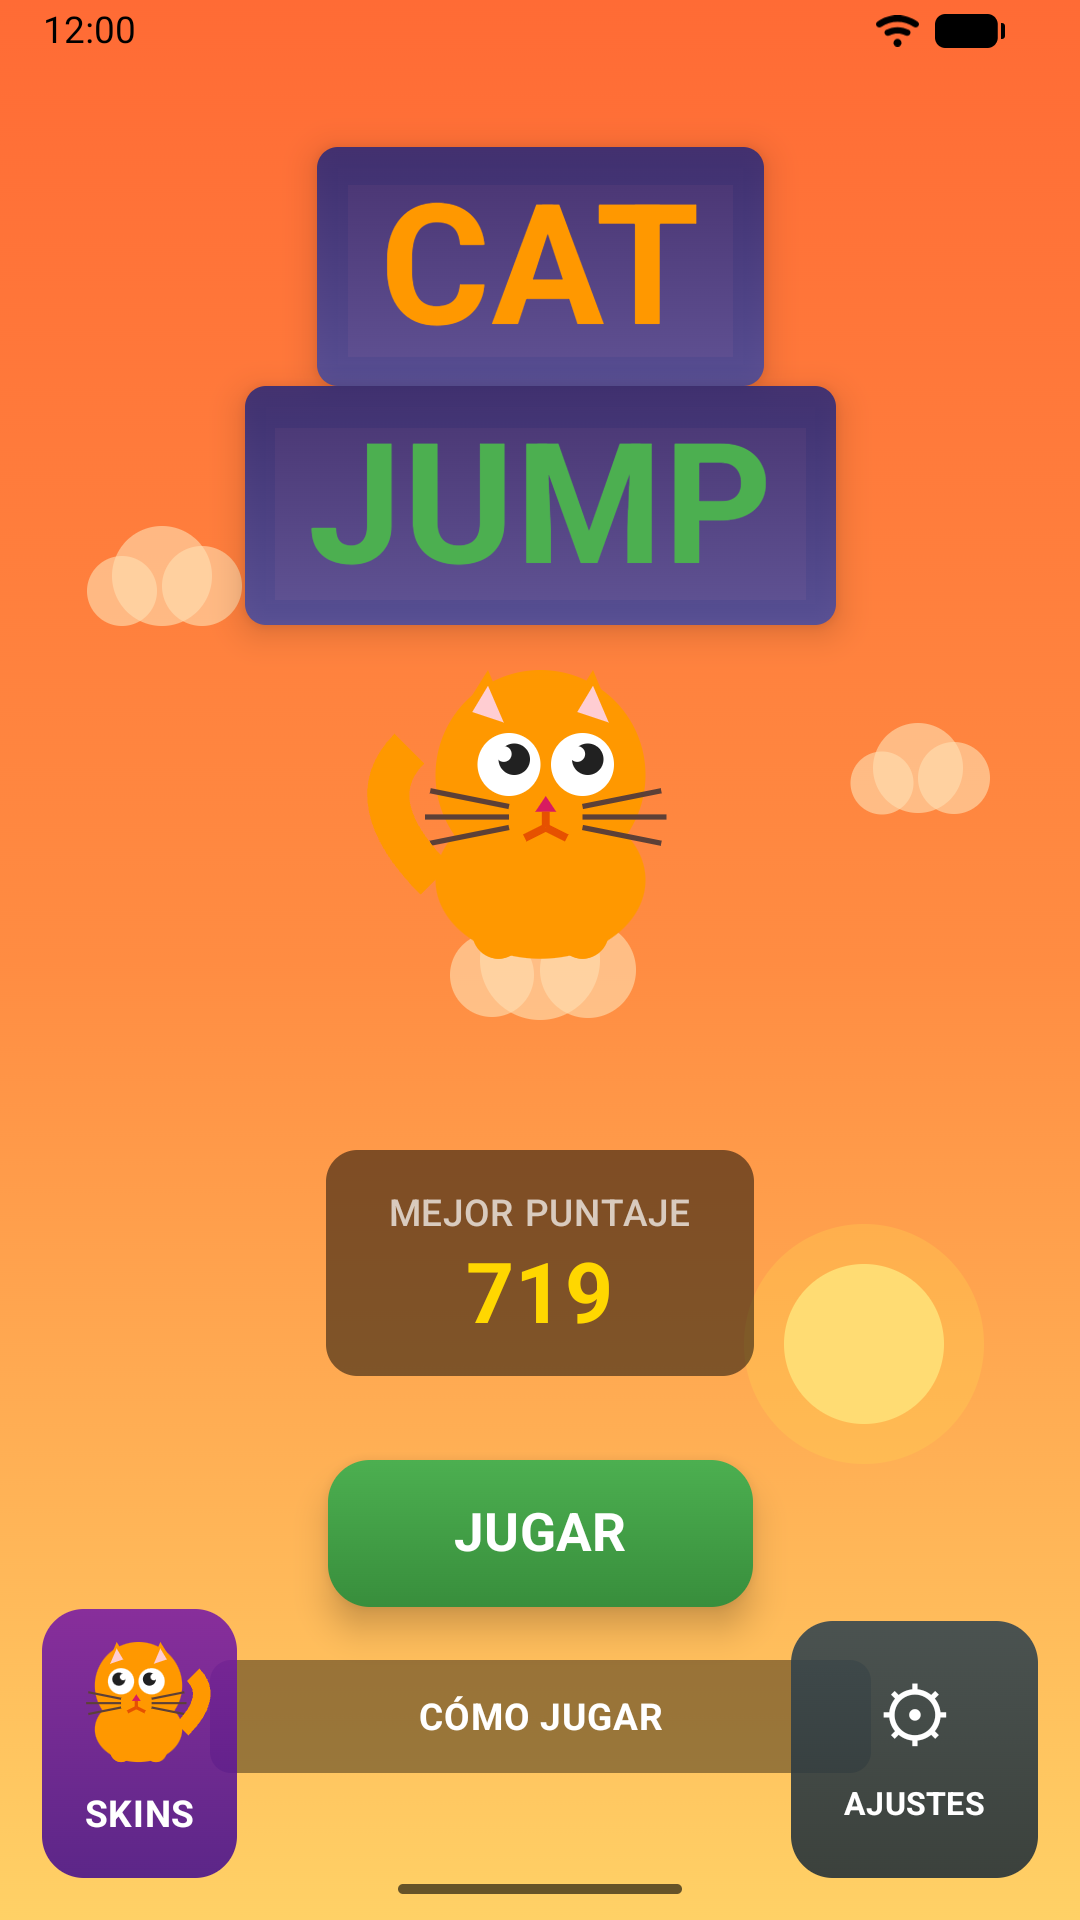
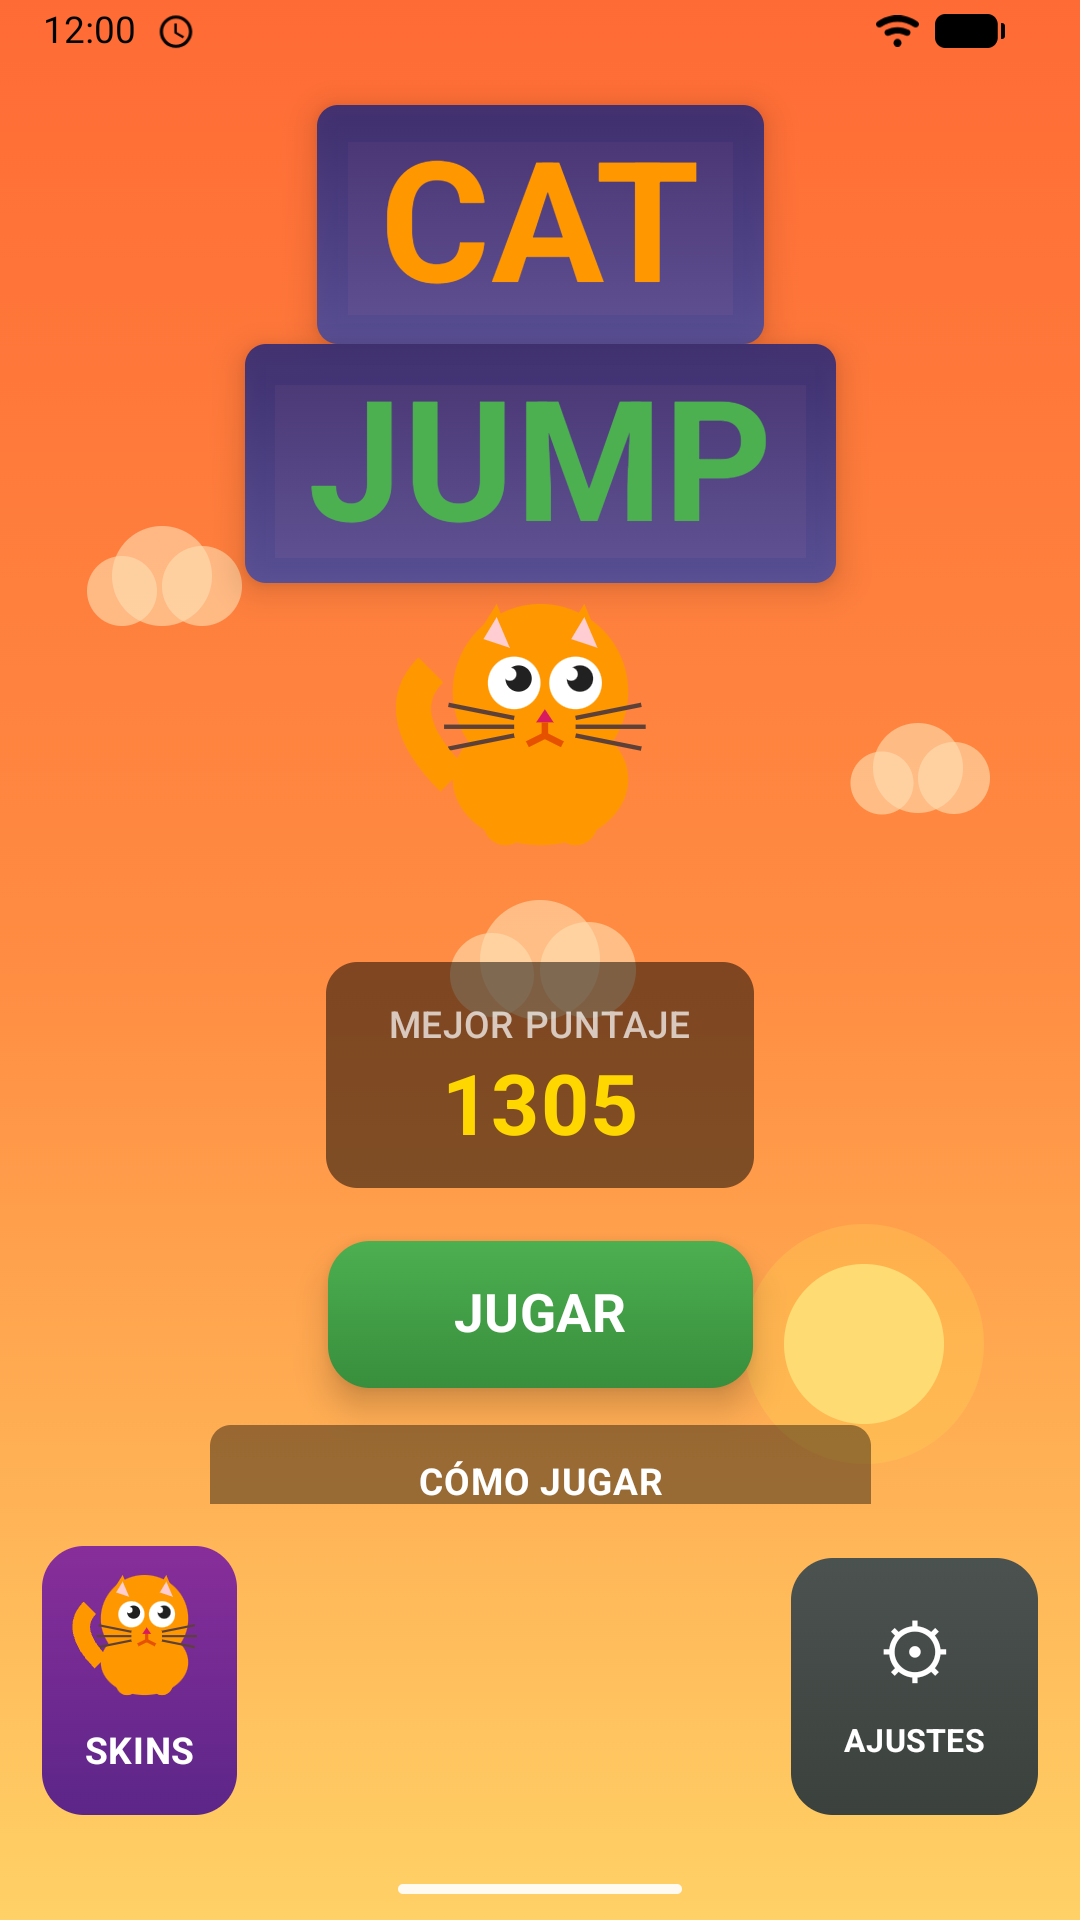
Menu: SKINS y AJUSTES dejan de tapar el panel CÓMO JUGAR
Los dos botones estaban alineados a las esquinas del Box raiz, o sea
flotando sobre la columna de contenido. Mientras el contenido entraba en
pantalla no se notaba, pero al aparecer MEJOR PUNTAJE dejaba de entrar:
Column no scrollea, asi que recortaba su ultimo hijo y "CÓMO JUGAR"
quedaba reducido a su titulo justo en la franja de los botones, tapado
por ambos. Era el estado que veia cualquiera despues de su primera
partida.

Ahora los tres van en el mismo flujo vertical: el contenido toma el alto
que sobra y los botones ocupan su propia franja, asi no pueden pisarse
sea cual sea el alto de pantalla. El contenido ademas scrollea, con
heightIn(min = alto disponible) para que Arrangement.Center siga
centrando cuando entra (el scroll mide con alto infinito, sin el minimo
la columna se encogeria al contenido y quedaria pegada arriba).

Reservar espacio abajo dentro de la columna no alcanzaba: los botones
flotaban, asi que el hueco solo agregaba area scrolleable y el panel
seguia cayendo debajo de ellos.

Con esto el contenido pasaba a ser mas alto que el area util y JUGAR
quedaba abajo del pliegue, asi que se ajusto el espaciado, que estaba
muy holgado: paddings y separadores mas chicos y el gato de 120 a 100dp.
En un alto de 731dp entra hasta JUGAR; las instrucciones se alcanzan
scrolleando. En pantallas mas altas entra todo centrado.

Los botones tampoco tenian insets propios y quedaban pegados a la barra
de gestos; al pasar al flujo heredan los de la columna.
[…]

Changed region(s): [[0.0306, 0.0312, 0.9778, 1.0], [0.3667, 0.9688, 0.6417, 1.0], [0.1528, 0.0, 0.1833, 0.0312]]

diff --git a/app/src/main/java/com/example/catjump/presentation/screens/MenuScreen.kt b/app/src/main/java/com/example/catjump/presentation/screens/MenuScreen.kt
@@ -9,17 +9,23 @@ import androidx.compose.foundation.background
 import androidx.compose.foundation.clickable
 import androidx.compose.foundation.layout.Arrangement
 import androidx.compose.foundation.layout.Box
+import androidx.compose.foundation.layout.BoxWithConstraints
 import androidx.compose.foundation.layout.Column
+import androidx.compose.foundation.layout.Row
 import androidx.compose.foundation.layout.Spacer
 import androidx.compose.foundation.layout.WindowInsets
 import androidx.compose.foundation.layout.fillMaxSize
+import androidx.compose.foundation.layout.fillMaxWidth
 import androidx.compose.foundation.layout.height
+import androidx.compose.foundation.layout.heightIn
 import androidx.compose.foundation.layout.offset
 import androidx.compose.foundation.layout.padding
 import androidx.compose.foundation.layout.safeDrawing
 import androidx.compose.foundation.layout.size
 import androidx.compose.foundation.layout.windowInsetsPadding
+import androidx.compose.foundation.rememberScrollState
 import androidx.compose.foundation.shape.RoundedCornerShape
+import androidx.compose.foundation.verticalScroll
 import androidx.compose.material3.Text
 import androidx.compose.runtime.Composable
 import androidx.compose.runtime.getValue
@@ -32,6 +38,7 @@ import androidx.compose.ui.graphics.Color
 import androidx.compose.ui.semantics.contentDescription
 import androidx.compose.ui.semantics.semantics
 import androidx.compose.ui.text.font.FontWeight
+import androidx.compose.ui.unit.Dp
 import androidx.compose.ui.unit.dp
 import androidx.compose.ui.unit.sp
 import com.example.catjump.domain.model.CatSkin
@@ -75,153 +82,213 @@ fun MenuScreen(
         // Animated background
         GameBackground(cameraYProvider = { 0f }, scoreProvider = { 0 })
 
-        // Main content
+        // SKINS y AJUSTES antes flotaban sobre el contenido, alineados a las
+        // esquinas de este Box. Al aparecer MEJOR PUNTAJE el contenido dejaba
+        // de entrar en pantalla y "CÓMO JUGAR" terminaba recortado y tapado
+        // por los dos botones. Ahora los tres van en el mismo flujo: el
+        // contenido toma el alto que sobra y los botones ocupan su propia
+        // franja, asi no pueden pisarse pase lo que pase con el alto.
         Column(
             modifier = Modifier
                 .fillMaxSize()
                 .windowInsetsPadding(WindowInsets.safeDrawing)
-                .padding(32.dp),
-            horizontalAlignment = Alignment.CenterHorizontally,
-            verticalArrangement = Arrangement.Center
         ) {
-            // Title
-            Text(
-                text = "CAT",
-                color = Color(0xFFFF9800),
-                fontSize = 64.sp,
-                fontWeight = FontWeight.Bold,
+            BoxWithConstraints(
                 modifier = Modifier
-                    .shadow(8.dp, RoundedCornerShape(8.dp))
-                    .background(
-                        brush = Brush.verticalGradient(
-                            colors = listOf(
-                                Color(0xFF1a237e).copy(alpha = 0.8f),
-                                Color(0xFF3949ab).copy(alpha = 0.8f)
-                            )
-                        ),
-                        shape = RoundedCornerShape(8.dp)
-                    )
-                    .padding(horizontal = 24.dp, vertical = 8.dp)
-            )
-            Text(
-                text = "JUMP",
-                color = Color(0xFF4CAF50),
-                fontSize = 64.sp,
-                fontWeight = FontWeight.Bold,
-                modifier = Modifier
-                    .shadow(8.dp, RoundedCornerShape(8.dp))
-                    .background(
-                        brush = Brush.verticalGradient(
-                            colors = listOf(
-                                Color(0xFF1a237e).copy(alpha = 0.8f),
-                                Color(0xFF3949ab).copy(alpha = 0.8f)
-                            )
-                        ),
-                        shape = RoundedCornerShape(8.dp)
-                    )
-                    .padding(horizontal = 24.dp, vertical = 8.dp)
-            )
-
-            Spacer(modifier = Modifier.height(32.dp))
-
-            // Animated cat with selected skin
-            Box(
-                modifier = Modifier
-                    .offset(y = -catBounce.dp)
-                    .size(120.dp),
-                contentAlignment = Alignment.Center
+                    .fillMaxWidth()
+                    .weight(1f)
             ) {
-                CatSprite(
-                    facingRight = true,
-                    isJumping = catBounce > 7f,
-                    modifier = Modifier.size(120.dp),
-                    skin = selectedSkin
+                MenuContent(
+                    highScore = highScore,
+                    catBounce = catBounce,
+                    selectedSkin = selectedSkin,
+                    onPlayClick = onPlayClick,
+                    availableHeight = maxHeight
                 )
             }
 
-            Spacer(modifier = Modifier.height(48.dp))
-
-            // High Score display
-            if (highScore > 0) {
-                Box(
-                    modifier = Modifier
-                        .background(
-                            color = Color.Black.copy(alpha = 0.5f),
-                            shape = RoundedCornerShape(12.dp)
-                        )
-                        .padding(horizontal = 24.dp, vertical = 12.dp)
-                ) {
-                    Column(horizontalAlignment = Alignment.CenterHorizontally) {
-                        Text(
-                            text = "MEJOR PUNTAJE",
-                            color = Color.White.copy(alpha = 0.7f),
-                            fontSize = 14.sp,
-                            fontWeight = FontWeight.Medium
-                        )
-                        Text(
-                            text = highScore.toString(),
-                            color = Color(0xFFFFD700),
-                            fontSize = 32.sp,
-                            fontWeight = FontWeight.Bold
-                        )
-                    }
-                }
-
-                Spacer(modifier = Modifier.height(32.dp))
-            }
-
-            // Play button
-            GameButton(
-                text = "JUGAR",
-                onClick = onPlayClick
+            MenuBottomBar(
+                skinsCatBounce = skinsCatBounce,
+                selectedSkin = selectedSkin,
+                onSkinsClick = onSkinsClick,
+                onSettingsClick = onSettingsClick
             )
+        }
+    }
+}
 
-            Spacer(modifier = Modifier.height(20.dp))
+@Composable
+private fun MenuContent(
+    highScore: Int,
+    catBounce: Float,
+    selectedSkin: CatSkin,
+    onPlayClick: () -> Unit,
+    availableHeight: Dp
+) {
+    Column(
+        modifier = Modifier
+            .fillMaxWidth()
+            .verticalScroll(rememberScrollState())
+            // El minimo es lo que hace que Arrangement.Center funcione: el
+            // scroll mide con alto infinito, asi que sin el la columna se
+            // encoge al contenido y queda pegada arriba. Con el, centra
+            // cuando entra y scrollea cuando no, en vez de recortarse.
+            .heightIn(min = availableHeight)
+            .padding(horizontal = 32.dp, vertical = 16.dp),
+        horizontalAlignment = Alignment.CenterHorizontally,
+        verticalArrangement = Arrangement.Center
+    ) {
+        // Title
+        Text(
+            text = "CAT",
+            color = Color(0xFFFF9800),
+            fontSize = 64.sp,
+            fontWeight = FontWeight.Bold,
+            modifier = Modifier
+                .shadow(8.dp, RoundedCornerShape(8.dp))
+                .background(
+                    brush = Brush.verticalGradient(
+                        colors = listOf(
+                            Color(0xFF1a237e).copy(alpha = 0.8f),
+                            Color(0xFF3949ab).copy(alpha = 0.8f)
+                        )
+                    ),
+                    shape = RoundedCornerShape(8.dp)
+                )
+                .padding(horizontal = 24.dp, vertical = 8.dp)
+        )
+        Text(
+            text = "JUMP",
+            color = Color(0xFF4CAF50),
+            fontSize = 64.sp,
+            fontWeight = FontWeight.Bold,
+            modifier = Modifier
+                .shadow(8.dp, RoundedCornerShape(8.dp))
+                .background(
+                    brush = Brush.verticalGradient(
+                        colors = listOf(
+                            Color(0xFF1a237e).copy(alpha = 0.8f),
+                            Color(0xFF3949ab).copy(alpha = 0.8f)
+                        )
+                    ),
+                    shape = RoundedCornerShape(8.dp)
+                )
+                .padding(horizontal = 24.dp, vertical = 8.dp)
+        )
 
-            // Instructions
+        Spacer(modifier = Modifier.height(20.dp))
+
+        // Animated cat with selected skin
+        Box(
+            modifier = Modifier
+                .offset(y = -catBounce.dp)
+                .size(100.dp),
+            contentAlignment = Alignment.Center
+        ) {
+            CatSprite(
+                facingRight = true,
+                isJumping = catBounce > 7f,
+                modifier = Modifier.size(100.dp),
+                skin = selectedSkin
+            )
+        }
+
+        Spacer(modifier = Modifier.height(24.dp))
+
+        // High Score display
+        if (highScore > 0) {
             Box(
                 modifier = Modifier
                     .background(
-                        color = Color.Black.copy(alpha = 0.4f),
-                        shape = RoundedCornerShape(8.dp)
+                        color = Color.Black.copy(alpha = 0.5f),
+                        shape = RoundedCornerShape(12.dp)
                     )
-                    .padding(horizontal = 16.dp, vertical = 10.dp)
+                    .padding(horizontal = 24.dp, vertical = 12.dp)
             ) {
                 Column(horizontalAlignment = Alignment.CenterHorizontally) {
                     Text(
-                        text = "CÓMO JUGAR",
-                        color = Color.White,
+                        text = "MEJOR PUNTAJE",
+                        color = Color.White.copy(alpha = 0.7f),
                         fontSize = 14.sp,
+                        fontWeight = FontWeight.Medium
+                    )
+                    Text(
+                        text = highScore.toString(),
+                        color = Color(0xFFFFD700),
+                        fontSize = 32.sp,
                         fontWeight = FontWeight.Bold
-                    )
-                    Spacer(modifier = Modifier.height(4.dp))
-                    Text(
-                        text = "Tocá los lados para mover al gato",
-                        color = Color.White.copy(alpha = 0.8f),
-                        fontSize = 12.sp,
-                        lineHeight = 15.sp
-                    )
-                    Text(
-                        text = "Saltá sobre las plataformas para subir",
-                        color = Color.White.copy(alpha = 0.8f),
-                        fontSize = 12.sp,
-                        lineHeight = 15.sp
-                    )
-                    Text(
-                        text = "Esquivá obstáculos y ¡no caigas!",
-                        color = Color.White.copy(alpha = 0.8f),
-                        fontSize = 12.sp,
-                        lineHeight = 15.sp
                     )
                 }
             }
+
+            Spacer(modifier = Modifier.height(20.dp))
         }
 
-        // Skins button - bottom left corner with dancing cat
+        // Play button
+        GameButton(
+            text = "JUGAR",
+            onClick = onPlayClick
+        )
+
+        Spacer(modifier = Modifier.height(14.dp))
+
+        // Instructions
         Box(
             modifier = Modifier
-                .align(Alignment.BottomStart)
-                .padding(16.dp)
+                .background(
+                    color = Color.Black.copy(alpha = 0.4f),
+                    shape = RoundedCornerShape(8.dp)
+                )
+                .padding(horizontal = 16.dp, vertical = 10.dp)
+        ) {
+            Column(horizontalAlignment = Alignment.CenterHorizontally) {
+                Text(
+                    text = "CÓMO JUGAR",
+                    color = Color.White,
+                    fontSize = 14.sp,
+                    fontWeight = FontWeight.Bold
+                )
+                Spacer(modifier = Modifier.height(4.dp))
+                Text(
+                    text = "Tocá los lados para mover al gato",
+                    color = Color.White.copy(alpha = 0.8f),
+                    fontSize = 12.sp,
+                    lineHeight = 15.sp
+                )
+                Text(
+                    text = "Saltá sobre las plataformas para subir",
+                    color = Color.White.copy(alpha = 0.8f),
+                    fontSize = 12.sp,
+                    lineHeight = 15.sp
+                )
+                Text(
+                    text = "Esquivá obstáculos y ¡no caigas!",
+                    color = Color.White.copy(alpha = 0.8f),
+                    fontSize = 12.sp,
+                    lineHeight = 15.sp
+                )
+            }
+        }
+    }
+}
+
+@Composable
+private fun MenuBottomBar(
+    skinsCatBounce: Float,
+    selectedSkin: CatSkin,
+    onSkinsClick: () -> Unit,
+    onSettingsClick: () -> Unit
+) {
+    Row(
+        modifier = Modifier
+            .fillMaxWidth()
+            .padding(16.dp),
+        horizontalArrangement = Arrangement.SpaceBetween,
+        verticalAlignment = Alignment.Bottom
+    ) {
+        // Skins button with dancing cat
+        Box(
+            modifier = Modifier
                 .clip(RoundedCornerShape(16.dp))
                 .background(
                     brush = Brush.verticalGradient(
@@ -263,11 +330,9 @@ fun MenuScreen(
             }
         }
 
-        // Settings button - bottom right corner
+        // Settings button
         Box(
             modifier = Modifier
-                .align(Alignment.BottomEnd)
-                .padding(16.dp)
                 .clip(RoundedCornerShape(16.dp))
                 .background(
                     brush = Brush.verticalGradient(
